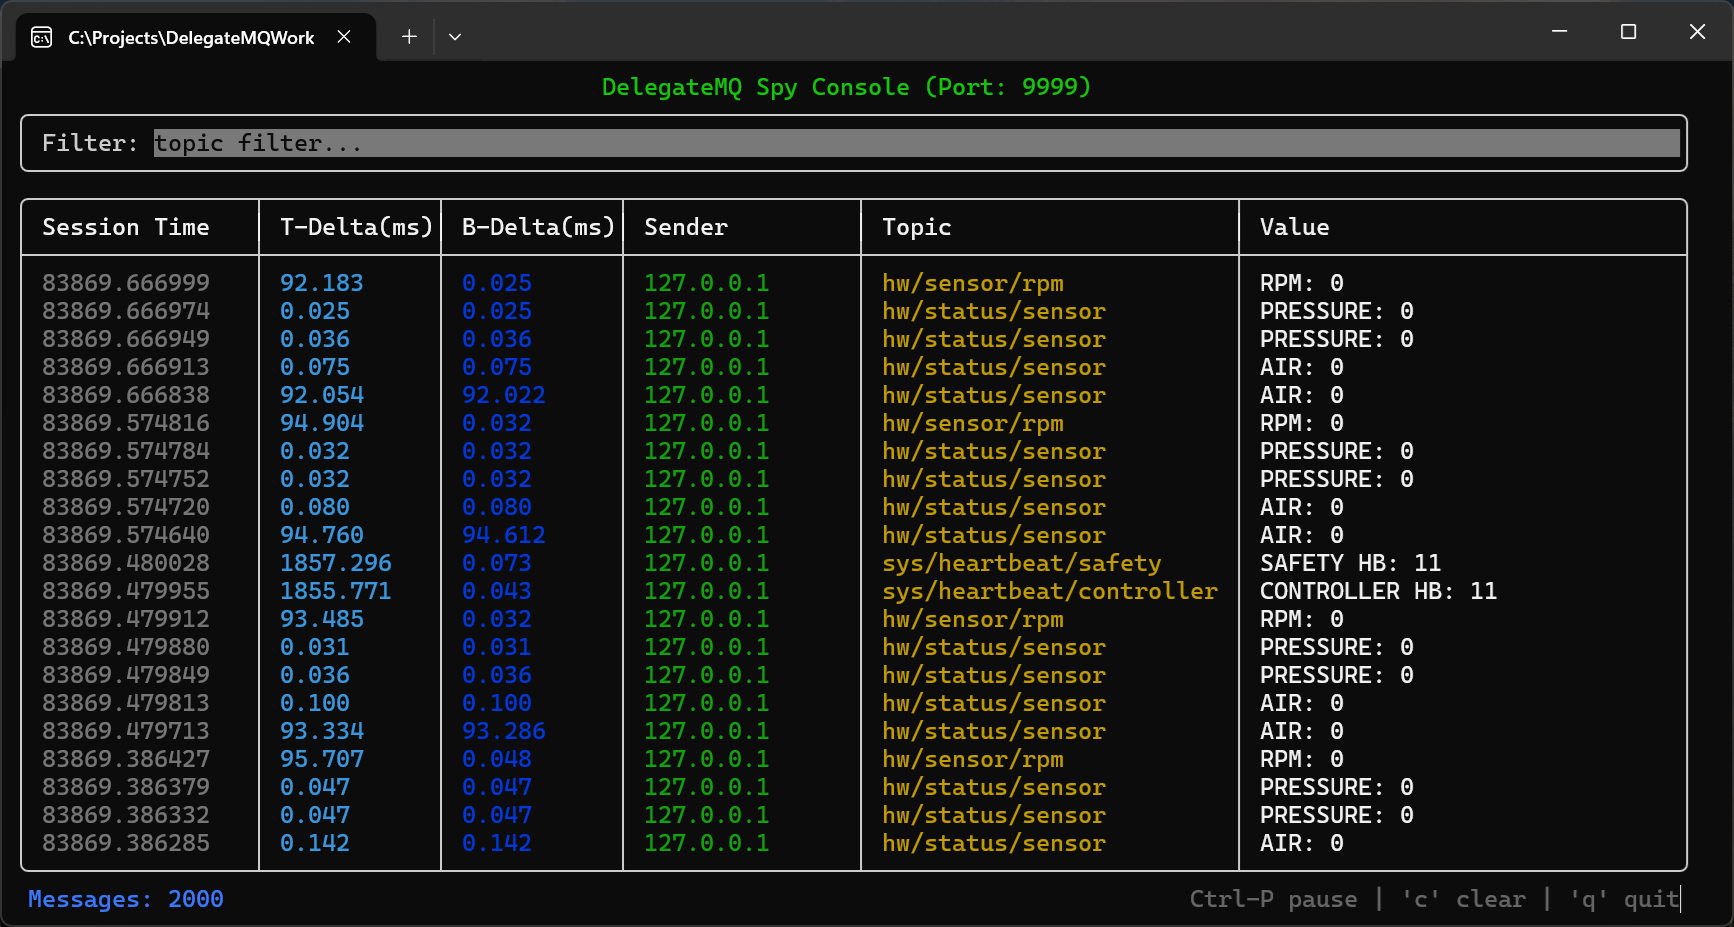
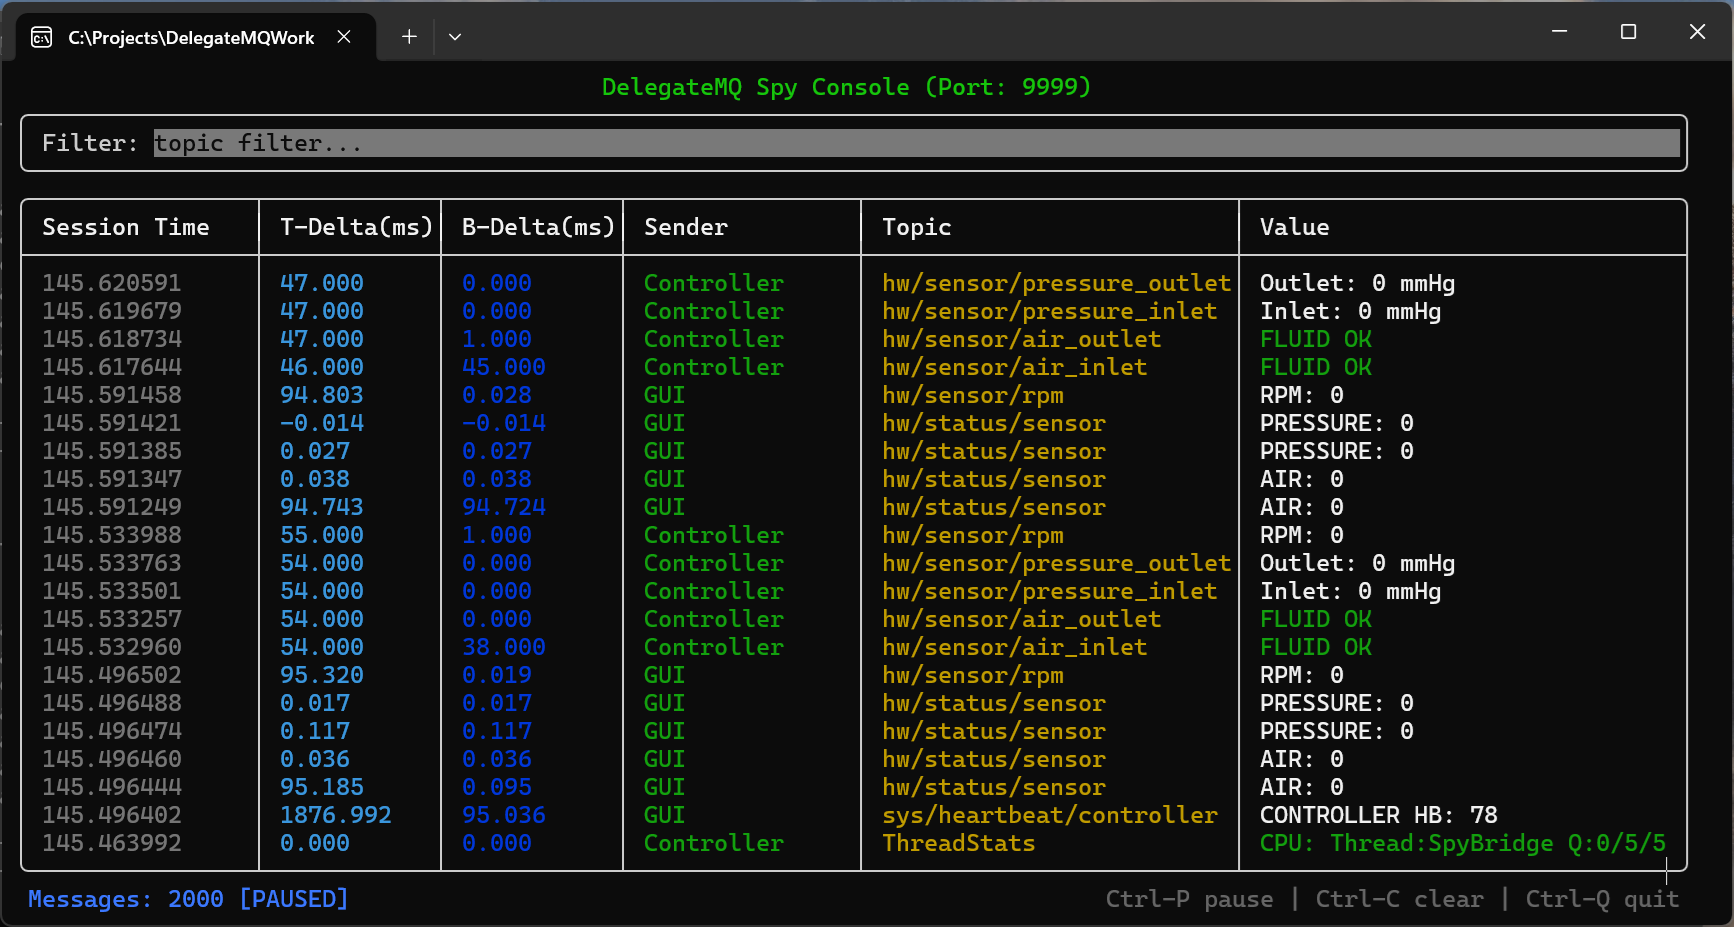
Update dmq-spy tool

diff --git a/tools/spy/main.cpp b/tools/spy/main.cpp
@@ -31,14 +31,16 @@
 using namespace ftxui;
 
 struct LogEntry {
-    uint64_t timestamp;
-    std::string sender_ip;
+    uint64_t source_timestamp;
+    uint64_t arrival_timestamp;
+    std::string sender_id;
     std::string topic;
     std::string value;
 };
 
 // Global state
 std::vector<LogEntry> g_messages;
+std::atomic<uint64_t> g_sessionStart{0};
 std::mutex g_msgMutex;
 std::atomic<bool> g_running{true};
 std::atomic<bool> g_paused{false};
@@ -76,9 +78,20 @@ void ReceiverThread(uint16_t port, std::string multicastGroup, std::string local
             std::istringstream iss(std::string(reinterpret_cast<char*>(buffer.data()), received), std::ios::binary);
             ms_decoder.read(iss, packet);
             if (iss.good()) {
-                if (g_fileLogger) g_fileLogger->info("[{}] [{}] {}", senderIp, packet.topic, packet.value);
+                if (g_fileLogger) g_fileLogger->info("[{}] [{}] [{}] {}", senderIp, packet.nodeId, packet.topic, packet.value);
+                
+                auto arrival = std::chrono::duration_cast<std::chrono::microseconds>(std::chrono::steady_clock::now().time_since_epoch()).count();
+                
                 std::lock_guard<std::mutex> lock(g_msgMutex);
-                g_messages.push_back({packet.timestamp_us, senderIp, (std::string)packet.topic, (std::string)packet.value});
+                // If this is the very first message of the session, use its arrival time as T=0
+                if (g_sessionStart == 0) {
+                    g_sessionStart = arrival;
+                }
+
+                std::string senderId = (std::string)packet.nodeId;
+                if (senderId.empty()) senderId = senderIp;
+
+                g_messages.push_back({packet.timestamp_us, static_cast<uint64_t>(arrival), senderId, (std::string)packet.topic, (std::string)packet.value});
                 if (g_messages.size() > 2000) g_messages.erase(g_messages.begin());
             }
         }
@@ -99,6 +112,9 @@ int main(int argc, char* argv[]) {
     }
     dmq::util::NetworkContext winsock;
     if (logFile.size()) g_fileLogger = spdlog::basic_logger_mt("spy_logger", logFile);
+
+    // Initial state: waiting for the first message to define T=0
+    g_sessionStart = 0;
 
     auto screen = ScreenInteractive::Fullscreen();
     std::thread receiver(ReceiverThread, port, multicastGroup, localInterface);
@@ -123,36 +139,48 @@ int main(int argc, char* argv[]) {
             std::lock_guard<std::mutex> lock(g_msgMutex);
             if (!g_paused) {
                 display_cache = g_messages;
-                std::sort(display_cache.begin(), display_cache.end(), [](const LogEntry& a, const LogEntry& b) {
-                    return a.timestamp < b.timestamp;
+                // Sort by local arrival time to ensure a perfectly monotonic timeline
+                std::stable_sort(display_cache.begin(), display_cache.end(), [](const LogEntry& a, const LogEntry& b) {
+                    return a.arrival_timestamp < b.arrival_timestamp;
                 });
             }
         }
 
         if (!display_cache.empty()) {
-            uint64_t sessionStart = display_cache.front().timestamp;
             std::map<std::string, uint64_t> lastBus;
             std::map<std::pair<std::string, std::string>, uint64_t> lastTopic;
 
             std::vector<Element> data_rows;
             for (size_t i = 0; i < display_cache.size(); ++i) {
                 auto& msg = display_cache[i];
+
+                // Filter first so deltas and session time are calculated for visible rows
+                if (!g_filter.empty() && msg.topic.find(g_filter) == std::string::npos) continue;
                 
+                // Deltas use HIGH-PRECISION source timestamps for jitter analysis
                 int64_t bDelta = 0;
-                if (lastBus.count(msg.sender_ip)) bDelta = msg.timestamp - lastBus[msg.sender_ip];
-                lastBus[msg.sender_ip] = msg.timestamp;
+                if (lastBus.count(msg.sender_id)) {
+                    bDelta = static_cast<int64_t>(msg.source_timestamp) - static_cast<int64_t>(lastBus[msg.sender_id]);
+                    // Cap at 1 hour; if larger, it's likely a boot-time jump or first message
+                    if (std::abs(bDelta) > 3600000000LL) bDelta = 0;
+                }
+                lastBus[msg.sender_id] = msg.source_timestamp;
 
                 int64_t tDelta = 0;
-                auto tKey = std::make_pair(msg.sender_ip, msg.topic);
-                if (lastTopic.count(tKey)) tDelta = msg.timestamp - lastTopic[tKey];
-                lastTopic[tKey] = msg.timestamp;
+                auto tKey = std::make_pair(msg.sender_id, msg.topic);
+                if (lastTopic.count(tKey)) {
+                    tDelta = static_cast<int64_t>(msg.source_timestamp) - static_cast<int64_t>(lastTopic[tKey]);
+                    // Cap at 1 hour; if larger, it's likely a boot-time jump or first message
+                    if (std::abs(tDelta) > 3600000000LL) tDelta = 0;
+                }
+                lastTopic[tKey] = msg.source_timestamp;
 
-                if (!g_filter.empty() && msg.topic.find(g_filter) == std::string::npos) continue;
+                // Session time uses LOCAL arrival time for absolute stability
+                int64_t relTimeUs = static_cast<int64_t>(msg.arrival_timestamp) - static_cast<int64_t>(g_sessionStart);
+                double relTime = static_cast<double>(relTimeUs < 0 ? 0 : relTimeUs) / 1000000.0;
 
-                double relTime = static_cast<double>(msg.timestamp - sessionStart) / 1000000.0;
                 auto fmtDelta = [](int64_t d) {
                     if (d == 0) return std::string("0.000");
-                    if (d > 3600000000LL) return std::string("---"); 
                     std::stringstream ss; ss << std::fixed << std::setprecision(3) << (static_cast<double>(d) / 1000.0);
                     return ss.str();
                 };
@@ -169,7 +197,7 @@ int main(int argc, char* argv[]) {
                     text(" " + ssRel.str()) | color(Color::GrayDark) | size(WIDTH, EQUAL, 16), separator(),
                     text(" " + fmtDelta(tDelta)) | color(Color::Cyan) | size(WIDTH, EQUAL, 12), separator(),
                     text(" " + fmtDelta(bDelta)) | color(Color::Blue) | size(WIDTH, EQUAL, 12), separator(),
-                    text(" " + msg.sender_ip) | color(Color::Green) | size(WIDTH, EQUAL, 16), separator(),
+                    text(" " + msg.sender_id) | color(Color::Green) | size(WIDTH, EQUAL, 16), separator(),
                     text(" " + msg.topic) | color(Color::Yellow) | size(WIDTH, EQUAL, 26), separator(),
                     text(" " + msg.value) | color(value_color) | flex
                 }));
@@ -187,16 +215,20 @@ int main(int argc, char* argv[]) {
             hbox({ 
                 text(" Messages: " + std::to_string(g_messages.size()) + (g_paused ? " [PAUSED]" : "")) | color(Color::BlueLight), 
                 filler(), 
-                text(" Ctrl-P pause | 'c' clear | 'q' quit ") | dim 
+                text(" Ctrl-P pause | Ctrl-C clear | Ctrl-Q quit ") | dim 
             }) | size(HEIGHT, EQUAL, 1)
         });
     });
 
     auto component = CatchEvent(renderer, [&](Event event) {
-        if (event == Event::Character('q')) { g_running = false; screen.Exit(); return true; }
+        if (event == Event::Character('\x11')) { g_running = false; screen.Exit(); return true; }
         if (event == Event::Character(static_cast<char>(16))) { g_paused = !g_paused; return true; }
-        if (event == Event::Character('c')) { std::lock_guard<std::mutex> lock(g_msgMutex); g_messages.clear(); return true; }
-        return false;
+        if (event == Event::Character('\x03')) {
+            std::lock_guard<std::mutex> lock(g_msgMutex);
+            g_messages.clear();
+            g_sessionStart = 0;
+            return true;
+        }        return false;
     });
 
     std::thread refresher([&] { while (g_running) { std::this_thread::sleep_for(std::chrono::milliseconds(100)); screen.PostEvent(Event::Custom); } });

diff --git a/tools/bridge/SpyBridge.cpp b/tools/bridge/SpyBridge.cpp
@@ -8,17 +8,17 @@
 #include <iostream>
 #include <sstream>
 
-void SpyBridge::Start(const std::string& address, uint16_t port) {
-    Init(address, port, TransportType::UNICAST);
-    std::cout << "[SpyBridge] Starting Unicast bridge to " << address << ":" << port << std::endl;
+void SpyBridge::Start(const std::string& address, uint16_t port, const std::string& nodeId) {
+    Init(address, port, TransportType::UNICAST, nodeId);
+    std::cout << "[SpyBridge] Starting Unicast bridge to " << address << ":" << port << " (Node: " << nodeId << ")" << std::endl;
 }
 
-void SpyBridge::StartMulticast(const std::string& groupAddr, uint16_t port, const std::string& localInterface) {
-    Init(groupAddr, port, TransportType::MULTICAST, localInterface);
-    std::cout << "[SpyBridge] Starting Multicast bridge to " << groupAddr << ":" << port << " using interface " << localInterface << std::endl;
+void SpyBridge::StartMulticast(const std::string& groupAddr, uint16_t port, const std::string& nodeId, const std::string& localInterface) {
+    Init(groupAddr, port, TransportType::MULTICAST, nodeId, localInterface);
+    std::cout << "[SpyBridge] Starting Multicast bridge to " << groupAddr << ":" << port << " using interface " << localInterface << " (Node: " << nodeId << ")" << std::endl;
 }
 
-void SpyBridge::Init(const std::string& address, uint16_t port, TransportType type, const std::string& localInterface) {
+void SpyBridge::Init(const std::string& address, uint16_t port, TransportType type, const std::string& nodeId, const std::string& localInterface) {
     auto& instance = GetInstance();
     if (instance.thread) return;
 
@@ -26,6 +26,7 @@ void SpyBridge::Init(const std::string& address, uint16_t port, TransportType ty
     instance.port = port;
     instance.localInterface = localInterface;
     instance.type = type;
+    instance.nodeId = nodeId;
 
     // Create a dedicated bridge thread with DROP policy to prevent stalling publishers
     instance.thread = std::make_unique<dmq::os::Thread>("SpyBridge", 1000, dmq::os::FullPolicy::DROP);
@@ -55,9 +56,14 @@ void SpyBridge::Init(const std::string& address, uint16_t port, TransportType ty
     // Subscribe to DataBus::Monitor asynchronously. The lambda will be invoked on the SpyBridge thread.
     instance.monitorConn = dmq::databus::DataBus::Monitor([](const dmq::databus::SpyPacket& packet) {
         auto& inst = GetInstance();
+
+        // Add nodeId to packet before sending
+        dmq::databus::SpyPacket outgoing = packet;
+        outgoing.nodeId = inst.nodeId;
+
         static serialize ms; 
         dmq::xostringstream oss(std::ios::binary);
-        ms.write(oss, packet);
+        ms.write(oss, outgoing);
         if (oss.good()) {
             std::string buffer = oss.str();
             inst.telemetrySocket.Send(buffer.data(), buffer.size());

diff --git a/src/delegate-mq/extras/databus/SpyPacket.h b/src/delegate-mq/extras/databus/SpyPacket.h
@@ -14,26 +14,28 @@ namespace dmq::databus {
 /// monotonic time since boot.
 struct SpyPacket : public ::serialize::I {
     SpyPacket() = default;
-    SpyPacket(const dmq::xstring& t, const dmq::xstring& v, uint64_t ts) 
-        : topic(t), value(v), timestamp_us(ts) {}
+    SpyPacket(const dmq::xstring& t, const dmq::xstring& v, uint64_t ts, const dmq::xstring& id = "")
+        : topic(t), value(v), timestamp_us(ts), nodeId(id) {}
 
     dmq::xstring topic;      ///< The name of the data topic.
     dmq::xstring value;      ///< Stringified representation of the data (or "?" if no stringifier registered).
     uint64_t timestamp_us;  ///< Microseconds (usually since boot) when the message was published.
+    dmq::xstring nodeId;    ///< Unique identifier for the sending node.
 
     std::ostream& write(::serialize& ms, std::ostream& os) override {
         ms.write(os, topic);
         ms.write(os, value);
-        return ms.write(os, timestamp_us);
+        ms.write(os, timestamp_us);
+        return ms.write(os, nodeId);
     }
 
     std::istream& read(::serialize& ms, std::istream& is) override {
         ms.read(is, topic);
         ms.read(is, value);
-        return ms.read(is, timestamp_us);
+        ms.read(is, timestamp_us);
+        return ms.read(is, nodeId);
     }
 };
-
 } // namespace dmq::databus
 
 

diff --git a/tools/bridge/SpyBridge.h b/tools/bridge/SpyBridge.h
@@ -15,13 +15,15 @@ public:
     /// @brief Start the spy bridge using Unicast UDP.
     /// @param address The IP address of the Spy Console (viewer).
     /// @param port The UDP port to send traffic to.
-    static void Start(const std::string& address, uint16_t port);
+    /// @param nodeId Unique identifier for this node.
+    static void Start(const std::string& address, uint16_t port, const std::string& nodeId = "");
 
     /// @brief Start the spy bridge using Multicast UDP.
     /// @param groupAddr The Multicast group address (e.g. 239.0.0.1).
     /// @param port The UDP port to send traffic to.
+    /// @param nodeId Unique identifier for this node.
     /// @param localInterface The local interface to use (e.g. 192.168.0.123).
-    static void StartMulticast(const std::string& groupAddr, uint16_t port, const std::string& localInterface = "0.0.0.0");
+    static void StartMulticast(const std::string& groupAddr, uint16_t port, const std::string& nodeId = "", const std::string& localInterface = "0.0.0.0");
 
     /// @brief Stop the spy bridge and cleanup resources.
     static void Stop();
@@ -32,7 +34,7 @@ private:
 
     enum class TransportType { UNICAST, MULTICAST };
 
-    static void Init(const std::string& address, uint16_t port, TransportType type, const std::string& localInterface = "");
+    static void Init(const std::string& address, uint16_t port, TransportType type, const std::string& nodeId, const std::string& localInterface = "");
 
     struct Instance {
         std::unique_ptr<dmq::os::Thread> thread;
@@ -40,6 +42,7 @@ private:
         UdpSocket telemetrySocket;
         std::string address;
         std::string localInterface;
+        std::string nodeId;
         uint16_t port = 0;
         TransportType type = TransportType::UNICAST;
     };

diff --git a/example/cellutron/common/util/Network.cpp b/example/cellutron/common/util/Network.cpp
@@ -59,7 +59,7 @@ void Network::Initialize(uint16_t subPort, uint16_t tcpPort, const std::string& 
     m_thread->CreateThread(WATCHDOG_TIMEOUT);
 
     // Initialize Bridges for dmq-spy and dmq-monitor
-    SpyBridge::Start("127.0.0.1", 9999);
+    SpyBridge::Start("127.0.0.1", 9999, m_nodeName);
     NodeBridge::StartMulticast(m_nodeName, "239.1.1.1", 9998);
 
     // Post the receiver loop to the standardized worker thread

diff --git a/tools/TOOLS.md b/tools/TOOLS.md
@@ -77,15 +77,19 @@ Ensure `NodeBridge` is started (see Node Monitor section above). It will automat
 
 <img src="dmq-spy-screenshot.png" alt="DelegateMQ Spy Screenshot" style="max-width: 800px; width: 100%;">       
 
-### Logic Analyzer Mode
+### Timing & Chrono-Sorting
 
-`dmq-spy` features a "Logic Analyzer" engine for high-fidelity timing diagnostics:
+`dmq-spy` uses a **Split-Timing Architecture** to provide stable diagnostics across distributed systems with unsynchronized clocks:
 
-*   **Chrono-Sorting**: Automatically inserts late-arriving UDP packets into their correct historical position based on source timestamps. This eliminates confusion from network packet reordering.
-*   **Session Time**: Displays time in seconds relative to the start of the trace (`0.000000`).
-*   **Dual Delta Tracking**: 
-    *   **T-Delta (Topic Delta)**: Time since the previous message of the *same* topic from the *same* sender. Use for signal jitter and frequency analysis.
-    *   **B-Delta (Bus Delta)**: Time since *any* previous message from the same sender. Use for traffic density and burst analysis.
+*   **Monotonic Session Timeline**: The "Session Time" (left column) is driven by the Spy tool's **local steady clock**. This ensures the timeline is always strictly increasing and starts at `0.000000` regardless of when remote nodes booted.
+*   **High-Precision Jitter Analysis**: The `T-Delta` and `B-Delta` columns use the **remote source timestamps** contained within the packets. This preserves microsecond-accurate frequency analysis for each sender.
+*   **Arrival-Order Sorting**: Messages are sorted by their physical arrival at the Spy tool. This prevents UI "jumps" caused by remote clock drift or network reordering.
+
+#### Interpreting Negative Deltas
+You may occasionally see negative values in the Delta columns (e.g., `-0.015` ms). This is a normal diagnostic indicator that reveals:
+*   **Network Reordering**: A packet arrived at the Spy tool *after* a sibling packet, even though its source timestamp indicates it was sent *before*.
+*   **Network Jitter**: Micro-fluctuations in network latency caused packets sent in rapid succession to swap positions during transit.
+*   **Multi-Core Race Conditions**: On high-speed systems, two threads may publish to the bus so closely that the slightly later message physically hits the network wire first.
 
 ### Key Features
 
@@ -118,19 +122,30 @@ dmq::databus::DataBus::RegisterStringifier<MyData>("sensor/temp", [](const MyDat
 ```
 
 #### 3. Start the Bridge
-Call `Start` (unicast) or `StartMulticast` at application initialization:
+Call `Start` (unicast) or `StartMulticast` at application initialization. It is highly recommended to provide a unique **Node ID** so the Spy tool can distinguish between multiple processes running on the same machine:
 
 ```cpp
 #include "SpyBridge.h"
 
 int main() {
-    // Unicast to a specific console IP
-    SpyBridge::Start("127.0.0.1", 9999);
+    // Unicast to a specific console IP with a unique Node ID
+    SpyBridge::Start("127.0.0.1", 9999, "Node-Alpha");
 
-    // OR: ...
-    SpyBridge::Stop();
+    // OR: Multicast with a unique Node ID
+    SpyBridge::StartMulticast("239.1.1.1", 9999, "Node-Beta");
 }
 ```
+
+### Distributed DataBus "Echo" Effect
+
+In a distributed DelegateMQ system, you may see multiple nodes "sending" the same topic (e.g., both a Controller and a GUI sending `sensor/rpm`). This is a normal behavior of the DataBus architecture:
+
+1.  The **Producer** (Controller) publishes the data locally.
+2.  The **Network Bridge** transmits that data to the **Consumer** (GUI).
+3.  The GUI's Network Bridge receives the data and calls `DataBus::Publish()` **locally** so that its own internal subscribers can hear it.
+4.  The Spy tool reports a message from the "GUI" because the message physically appeared on the GUI's local bus.
+
+These "reflections" indicate that the data has successfully traversed the network and is being injected into the remote node's bus.
 
 ### Usage
 
@@ -146,8 +161,8 @@ int main() {
 
 **Controls:**
 - `Ctrl-P` — Pause / Resume live feed
-- `c` — Clear trace and reset session time
-- `q` — Quit
+- `Ctrl-C` — Clear trace and reset session time
+- `Ctrl-Q` — Quit
 
 ---
 